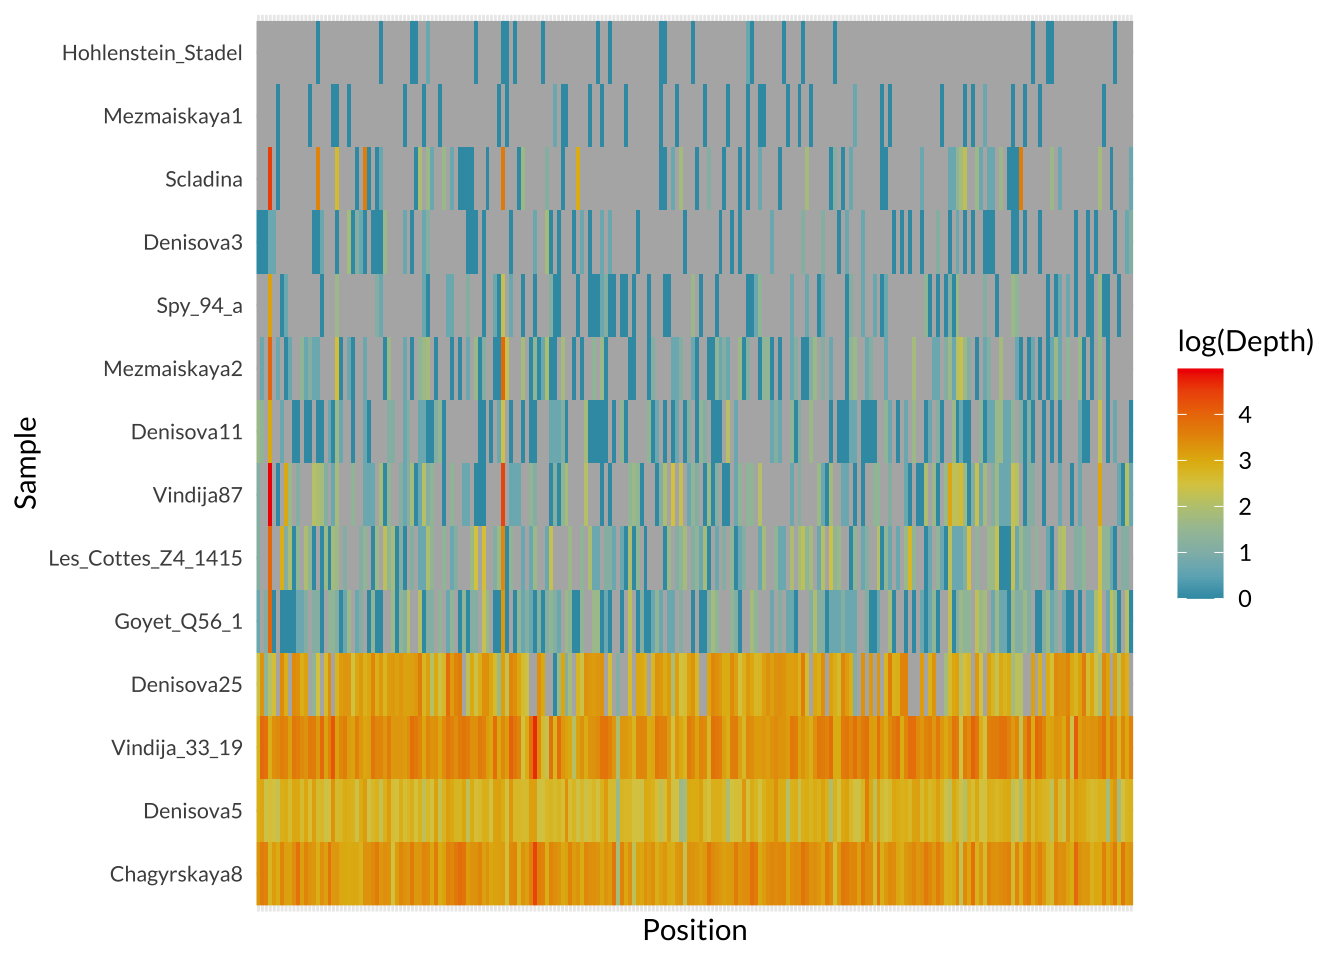
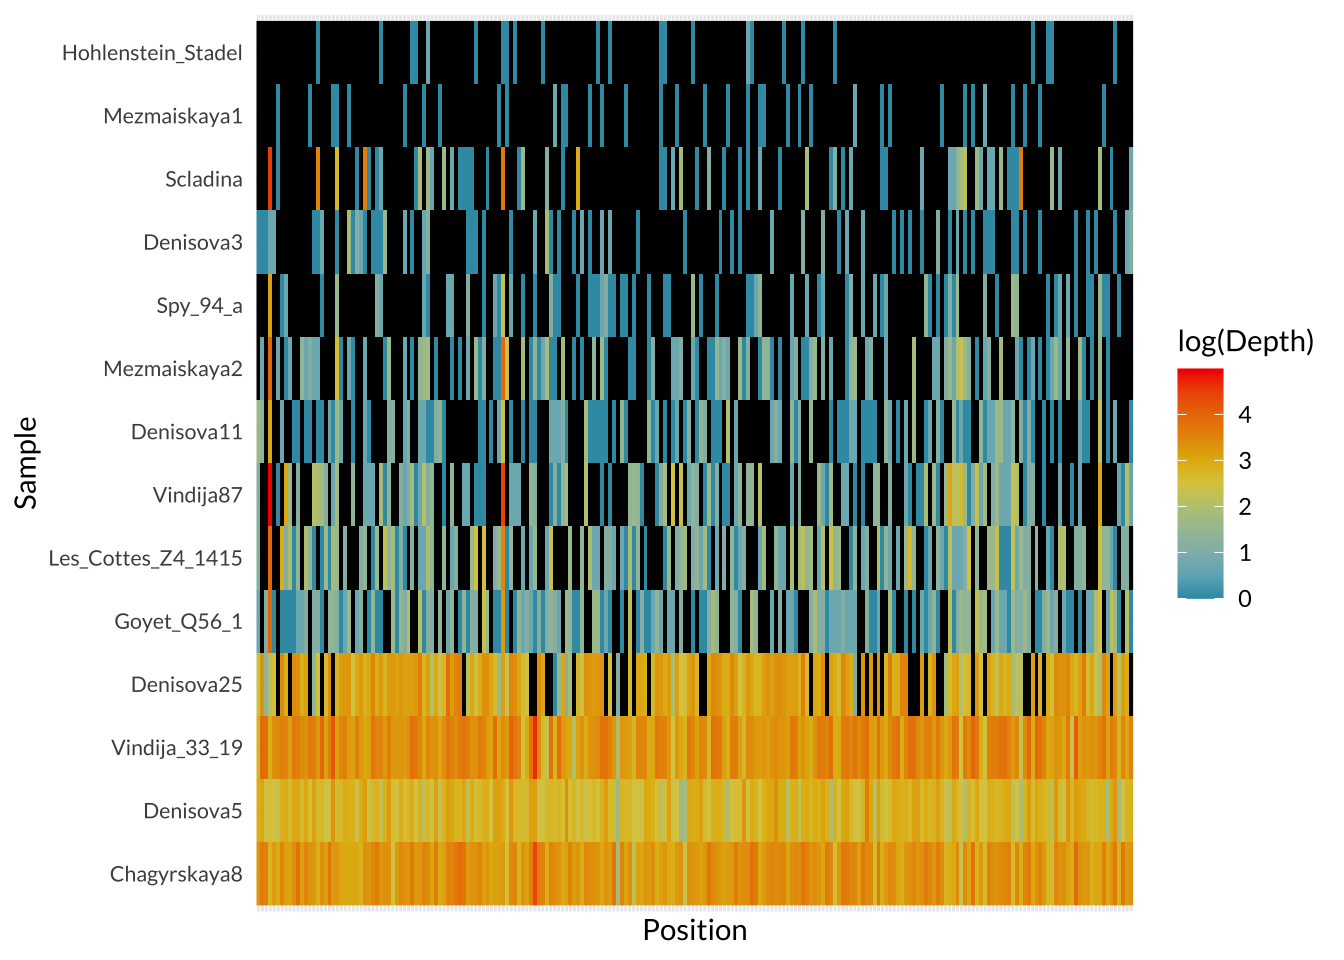
Build site.

Changed region(s): [[0.1875, 0.0, 0.8438, 0.75]]

diff --git a/docs/depth.html b/docs/depth.html
@@ -526,15 +526,15 @@ project makes it easier to run your code on other machines.</p>
 <div class="panel panel-default">
 <div class="panel-heading">
 <p class="panel-title">
-<a data-toggle="collapse" data-parent="#workflowr-checks" href="#strongRepositoryversionstrongahrefhttpsgithubcomlilyhealdPAINTtreebd542a3559cb1db6f55201cbb12d7d3eae2b4a3ctargetblankbd542a3a">
+<a data-toggle="collapse" data-parent="#workflowr-checks" href="#strongRepositoryversionstrongahrefhttpsgithubcomlilyhealdPAINTtree77cf9930d0960ecdaa2769dd5426633e56025ecbtargetblank77cf993a">
 <span class="glyphicon glyphicon-ok text-success"
 aria-hidden="true"></span> <strong>Repository version:</strong>
-<a href="https://github.com/lilyheald/PAINT/tree/bd542a3559cb1db6f55201cbb12d7d3eae2b4a3c" target="_blank">bd542a3</a>
+<a href="https://github.com/lilyheald/PAINT/tree/77cf9930d0960ecdaa2769dd5426633e56025ecb" target="_blank">77cf993</a>
 </a>
 </p>
 </div>
 <div
[2 lines of base64/hex data omitted]
 class="panel-collapse collapse">
 <div class="panel-body">
 <p>
@@ -544,7 +544,7 @@ reproducibility.
 </p>
 <p>
 The results in this page were generated with repository version
-<a href="https://github.com/lilyheald/PAINT/tree/bd542a3559cb1db6f55201cbb12d7d3eae2b4a3c" target="_blank">bd542a3</a>.
+<a href="https://github.com/lilyheald/PAINT/tree/77cf9930d0960ecdaa2769dd5426633e56025ecb" target="_blank">77cf993</a>.
 See the <em>Past versions</em> tab to see a history of the changes made
 to the R Markdown and HTML files.
 </p>
@@ -682,6 +682,40 @@ Message
 </tr>
 </thead>
 <tbody>
+<tr>
+<td>
+Rmd
+</td>
+<td>
+<a href="https://github.com/lilyheald/PAINT/blob/77cf9930d0960ecdaa2769dd5426633e56025ecb/analysis/depth.Rmd" target="_blank">77cf993</a>
+</td>
+<td>
+Lily Heald
+</td>
+<td>
+2026-04-14
+</td>
+<td>
+Update missing map
+</td>
+</tr>
+<tr>
+<td>
+html
+</td>
+<td>
+<a href="https://rawcdn.githack.com/lilyheald/PAINT/c24375ebd9aaf68eaa043d731040be8f264fefc0/docs/depth.html" target="_blank">c24375e</a>
+</td>
+<td>
+Lily Heald
+</td>
+<td>
+2026-04-14
+</td>
+<td>
+Build site.
+</td>
+</tr>
 <tr>
 <td>
 Rmd
